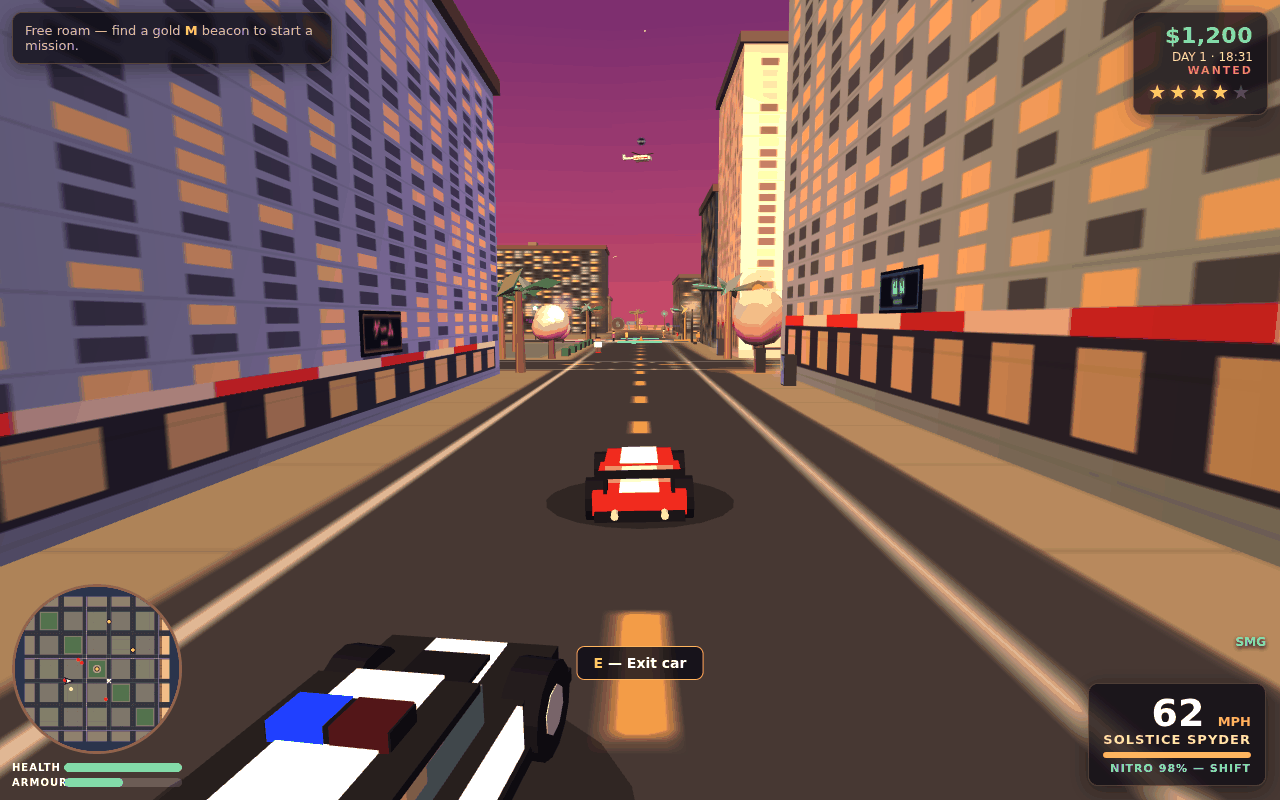
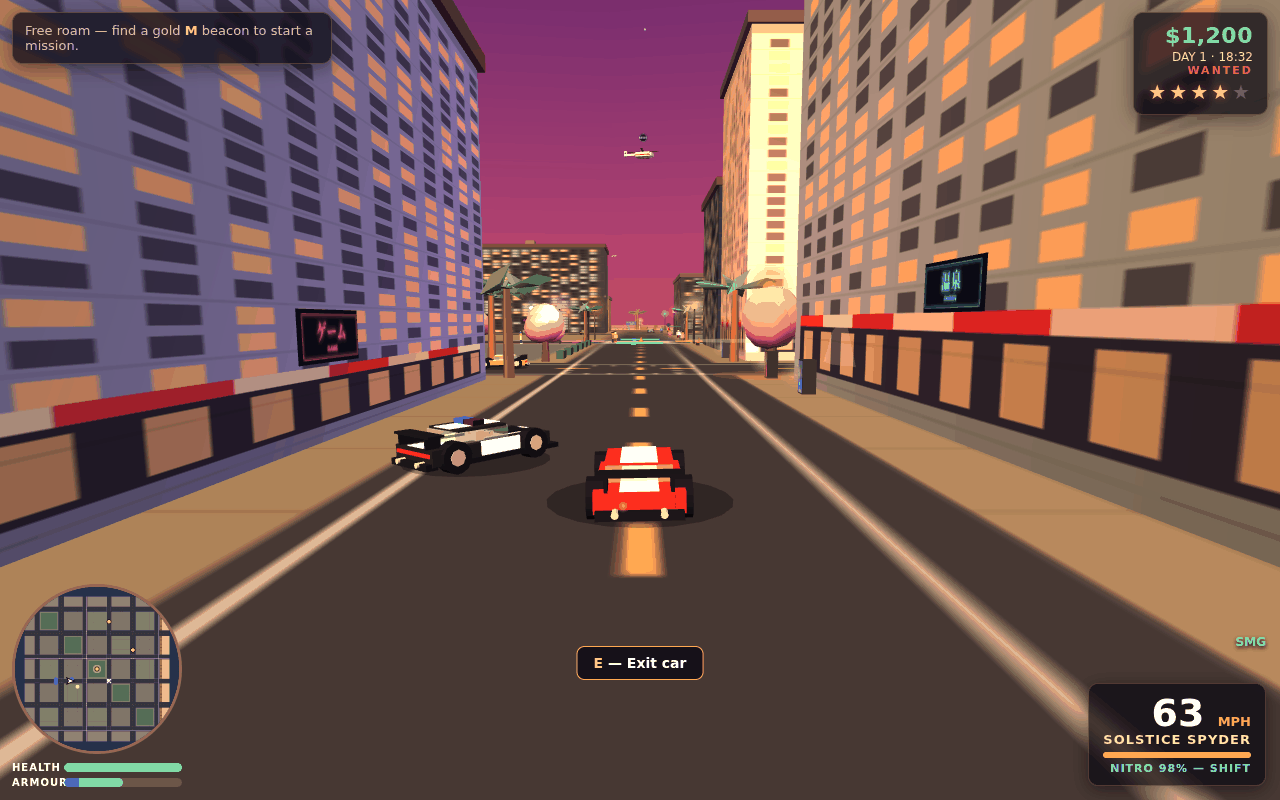
Retake cover: SBPD cruiser fully in frame beside the Spyder, Air-1 heli in the sky; expand main.ts entry description + screenshot pre-flight checks

diff --git a/main.ts b/main.ts
@@ -1,16 +1,28 @@
-// SOLSTICE BAY (gta6-01 entry): the game/ folder below is a full 3D open-world
-// crime game — a neon Tokyo-bay city at sunset with 7 race cars, 3 missions,
-// a 5-star wanted system with police cars and helicopters, on-foot shooting,
-// traffic with drivers and 44 walking pedestrians. It runs 100% offline:
-// every script it loads is vendored under game/js, and it makes no network
-// request of its own. Screenshots in screenshots/ are real headless-browser
-// renders of this code (Playwright + Chromium), never edited or composited.
+// SOLSTICE BAY (gta6-01 entry) — a full 3D open-world crime game in game/:
+// a neon Tokyo-bay city at sunset. Steal one of 7 race cars, run 3 missions
+// for cash ($2,500 / $4,000 / $6,500), and outrun the SBPD under a 0-5 star
+// wanted system — police cruisers chase from 1 star, the Air-1 helicopter
+// joins with a searchlight at 3+. On foot there is shooting (pistol + SMG),
+// 44 pedestrians walk the sidewalks and the beach, 8 traffic cars with
+// visible drivers obey the lights, and a news helicopter circles the city
+// while a rescue helicopter waits on the hospital helipad. The city itself
+// is the showpiece: a Shibuya-style scramble crossing, sakura streets, a red
+// torii gate with stone lanterns, konbini, ramen carts, a monorail, and a
+// beach with a pier, umbrellas, sailboats and a volleyball game. Phone
+// players get touch controls (floating joystick, camera drag, JUMP / FIRE /
+// CAR / NITRO buttons); desktop uses WASD + mouse drag, SHIFT nitro, SPACE
+// handbrake, E enter/exit car, CLICK/F shoot, M nearest mission.
+// It runs 100% offline: every script it loads is vendored under game/js,
+// and it makes no network request of its own. Screenshots in screenshots/
+// are real headless-browser renders of this code (Playwright + Chromium),
+// never edited or composited — the cover is a 4-star police chase at the
+// scramble crossing, framed so the pursuing SBPD cruiser is fully in shot.
 const GAME_NAME = 'SOLSTICE BAY';
 // Serve it locally with `node serve.ts`, then open http://localhost:8080.
 // Outside the grader's container, MAKEFUN_OUTPUT_DIR stands in for /output:
 //   mkdir -p out && MAKEFUN_OUTPUT_DIR=out node main.ts
 
-import { cpSync, existsSync, mkdirSync, writeFileSync } from 'node:fs';
+import { cpSync, existsSync, mkdirSync, readdirSync, statSync, writeFileSync } from 'node:fs';
 import { join } from 'node:path';
 import { fileURLToPath } from 'node:url';
 import { buildDossier } from './vendor/makefun-game.ts';
@@ -22,6 +34,18 @@ mkdirSync(out, { recursive: true });
 cpSync(join(here, 'game'), join(out, 'game'), { recursive: true });
 mkdirSync(join(out, 'screenshots'), { recursive: true });
 if (existsSync(join(here, 'screenshots'))) cpSync(join(here, 'screenshots'), join(out, 'screenshots'), { recursive: true });
+
+// Pre-flight: fail fast with a plain message when the entry is malformed,
+// instead of letting buildDossier refuse it with a terse cap error.
+if (!existsSync(join(here, 'game', 'index.html'))) throw new Error('main.ts: game/index.html missing');
+const shotDir = join(here, 'screenshots');
+const shots = existsSync(shotDir) ? readdirSync(shotDir).filter((f) => /\.png$/i.test(f)).sort() : [];
+if (shots.length < 1 || shots.length > 4) throw new Error(`main.ts: expected 1-4 screenshots, found ${shots.length}`);
+for (const f of shots) {
+  const bytes = statSync(join(shotDir, f)).size;
+  if (bytes > 262144) throw new Error(`main.ts: screenshots/${f} is ${bytes} bytes, over the 256 KiB cap`);
+}
+if (!shots[0].startsWith('1-')) throw new Error(`main.ts: first screenshot ${shots[0]} is not the cover (must start with '1-')`);
 
 // The scorer's own caps (reference/gate.json): only text_max_bytes shapes the bytes; the others refuse an entry the
 // scorer would refuse (more than 4 screenshots or one over 256 KiB; more than 993 files in game/ or 48 MiB of game
